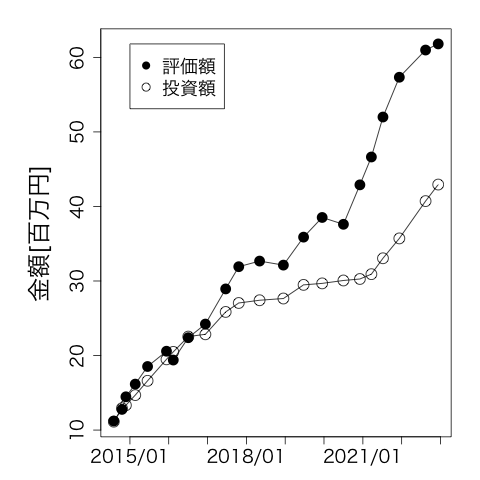
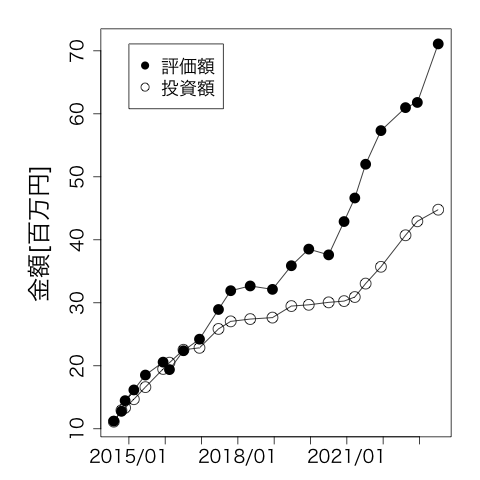
update

diff --git a/investment_return.md b/investment_return.md
@@ -34,3 +34,4 @@ permalink: /investment_return/
 12/10/2021|35,714,074|57,333,260|21,619,186|60.53%
 8/14/2022|40,718,005|60,982,959|20,264,953|49.77%
 12/11/2022|42,937,345|61,805,704|18,868,359|43.94%
+7/9/2023|44,778,512|71,096,975|26,318,463  |58.77%
